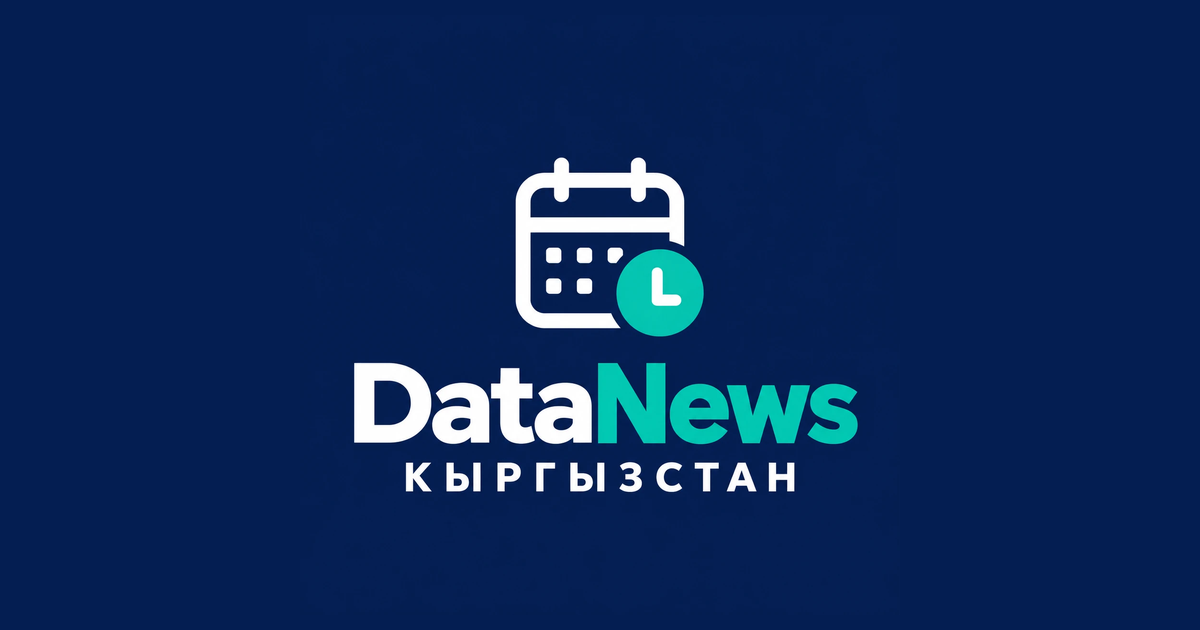
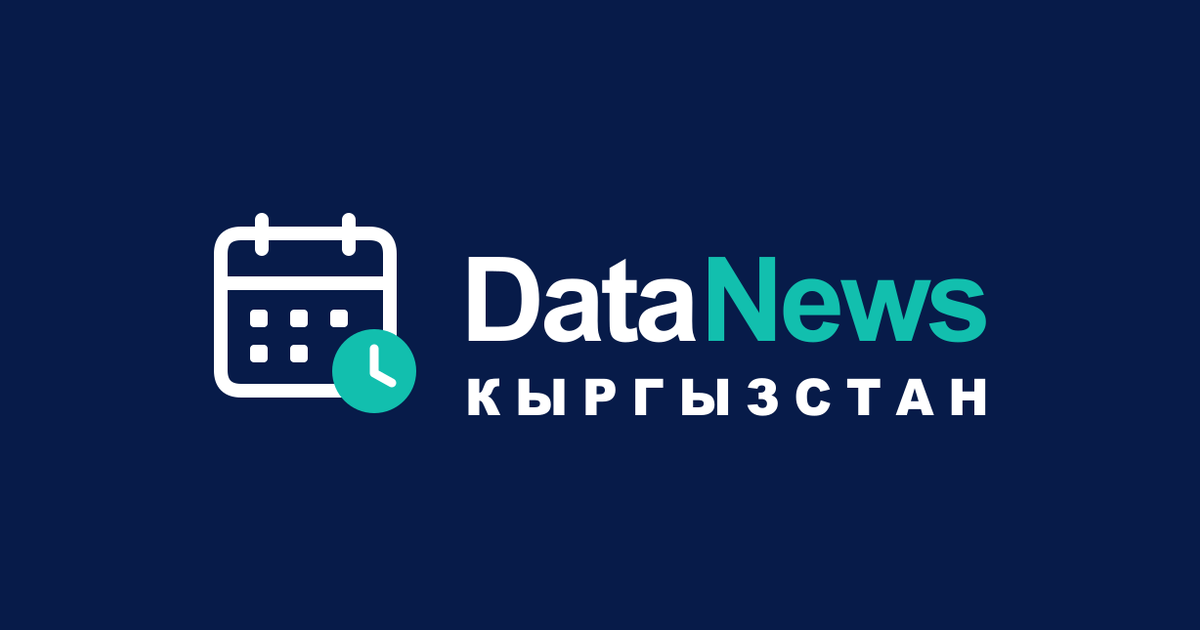
Горизонтальный логотип: шапка, меню, подвал, страница новости, картинка для соцсетей
- Утверждённый горизонтальный логотип: в шапке — вариант без фона (точно воспроизводит исходник на его фоне), на светлых местах — с фирменной плашкой
- Только масштаб и обрезка пустых полей, без изменения цветов и начертания
- og-default.png пересобран с горизонтальным логотипом; квадратный логотип остаётся для иконок

Claude-Session: https://claude.ai/code/session_01M3BMKTEz57DaZsuxDDpKSa

Changed region(s): [[0.1542, 0.3317, 0.8325, 0.7841], [0.37, 0.2413, 0.8325, 0.5429]]

diff --git a/src/components/BrandLogo.tsx b/src/components/BrandLogo.tsx
@@ -1,21 +1,33 @@
 import React from 'react';
 
+/** Пропорции горизонтального логотипа (ширина / высота) — по утверждённому файлу, без искажений */
+const RATIO = { light: 798 / 216, plate: 870 / 288 };
+
 /**
- * Официальный логотип DataNews Кыргызстан — утверждённое изображение (public/brand/datanews-logo-original.webp),
- * без изменений: только пропорциональное уменьшение (256 и 512 px — для обычных и чётких экранов).
- * Квадратная композиция: значок-календарь с часами, «DataNews», подпись «КЫРГЫЗСТАН».
- * Фон логотипа — фирменный тёмно-синий #041E52 (--color-brand-navy); на нём логотип сливается с шапкой.
+ * Утверждённый горизонтальный логотип DataNews Кыргызстан (public/brand/datanews-logo-horizontal-original.png).
+ *  - light — тот же логотип без собственного фона, для тёмно-синей шапки;
+ *  - plate — с фирменным фоном логотипа и скруглёнными углами, для светлых мест (меню, подвал, страница новости).
+ * Только масштаб и обрезка пустых полей — цвета и начертание не меняются.
  */
-export const BrandLogo: React.FC<{ size: number; className?: string; alt?: string }> = ({ size, className = '', alt = 'DataNews Кыргызстан' }) => (
-  <img
-    src={size > 128 ? '/brand/datanews-logo-512.webp' : '/brand/datanews-logo-256.webp'}
-    srcSet={size > 128 ? undefined : '/brand/datanews-logo-256.webp 1x, /brand/datanews-logo-512.webp 2x'}
-    width={size}
-    height={size}
-    alt={alt}
-    decoding="async"
-    draggable={false}
-    className={`block select-none shrink-0 ${className}`}
-    style={{ width: size, height: size }}
-  />
-);
+export const BrandLogo: React.FC<{ height: number; variant?: 'light' | 'plate'; className?: string; alt?: string }> = ({
+  height,
+  variant = 'light',
+  className = '',
+  alt = 'DataNews Кыргызстан',
+}) => {
+  const width = Math.round(height * RATIO[variant]);
+  // Файл с запасом по высоте (×2–×3) — чёткость на экранах высокой плотности
+  const file = variant === 'light' ? 96 : 192;
+  return (
+    <img
+      src={`/brand/datanews-logo-${variant}-${file}.webp`}
+      width={width}
+      height={height}
+      alt={alt}
+      decoding="async"
+      draggable={false}
+      className={`block select-none shrink-0 ${variant === 'plate' ? 'rounded-lg' : ''} ${className}`}
+      style={{ width, height }}
+    />
+  );
+};

diff --git a/src/components/Header.tsx b/src/components/Header.tsx
@@ -153,9 +153,9 @@ export const Header: React.FC<HeaderProps> = ({
             className="flex items-center text-left focus:outline-none focus-visible:ring-2 focus-visible:ring-[#20C7B5]"
             aria-label="DataNews Home"
           >
-            {/* Утверждённый логотип целиком: фон шапки — тот же фирменный тёмно-синий, поэтому квадрат логотипа сливается с ней */}
-            <BrandLogo size={56} className="lg:hidden" />
-            <BrandLogo size={64} className="hidden lg:block" />
+            {/* Утверждённый горизонтальный логотип, вариант без фона — на тёмно-синей шапке */}
+            <BrandLogo height={32} className="sm:hidden" />
+            <BrandLogo height={40} className="hidden sm:block" />
           </button>
           {/* Девиз — рядом с логотипом на широких экранах */}
           <span className="hidden lg:block pl-5 ml-1 border-l border-white/20 text-sm font-semibold text-[#20C7B5] whitespace-nowrap">

diff --git a/src/components/Footer.tsx b/src/components/Footer.tsx
@@ -57,7 +57,7 @@ export const Footer: React.FC<FooterProps> = ({ currentLanguage: lang, onNavigat
         <div className="grid grid-cols-2 sm:grid-cols-3 lg:grid-cols-12 gap-x-6 gap-y-8 lg:gap-8 mb-8">
           {/* Бренд */}
           <div className="col-span-2 sm:col-span-3 lg:col-span-4">
-            <BrandLogo size={132} className="mb-4" />
+            <BrandLogo height={64} variant="plate" className="mb-4" />
             <p className="text-[13px] font-semibold text-[#12327A] leading-snug max-w-xs">{t('motto')}</p>
             <p className="text-[13px] text-gray-600 leading-snug max-w-xs mt-1">{t('appSlogan')}</p>
           </div>

diff --git a/src/components/AnnouncementDetailModal.tsx b/src/components/AnnouncementDetailModal.tsx
@@ -304,7 +304,7 @@ export const AnnouncementDetailModal: React.FC<Props> = ({
             {L.back[lang]}
           </button>
           <button type="button" onClick={onClose} aria-label={L.close[lang]} className="hidden sm:block">
-            <BrandLogo size={44} />
+            <BrandLogo height={32} variant="plate" />
           </button>
           <div className="relative">
             <button

diff --git a/src/components/SectionsDrawer.tsx b/src/components/SectionsDrawer.tsx
@@ -75,7 +75,7 @@ export const SectionsDrawer: React.FC<SectionsDrawerProps> = ({
         }`}
       >
         <div className="h-16 shrink-0 px-4 flex items-center justify-between border-b border-gray-100">
-          <BrandLogo size={52} />
+          <BrandLogo height={40} variant="plate" />
           <button
             ref={closeRef}
             onClick={onClose}
